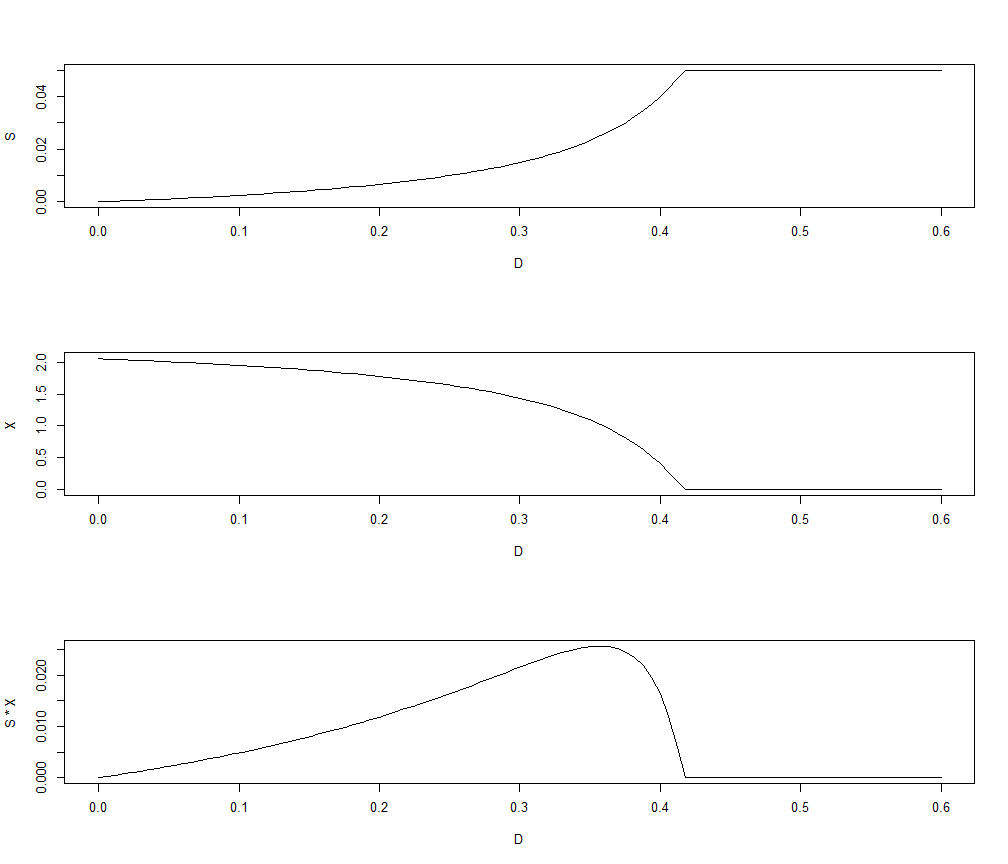
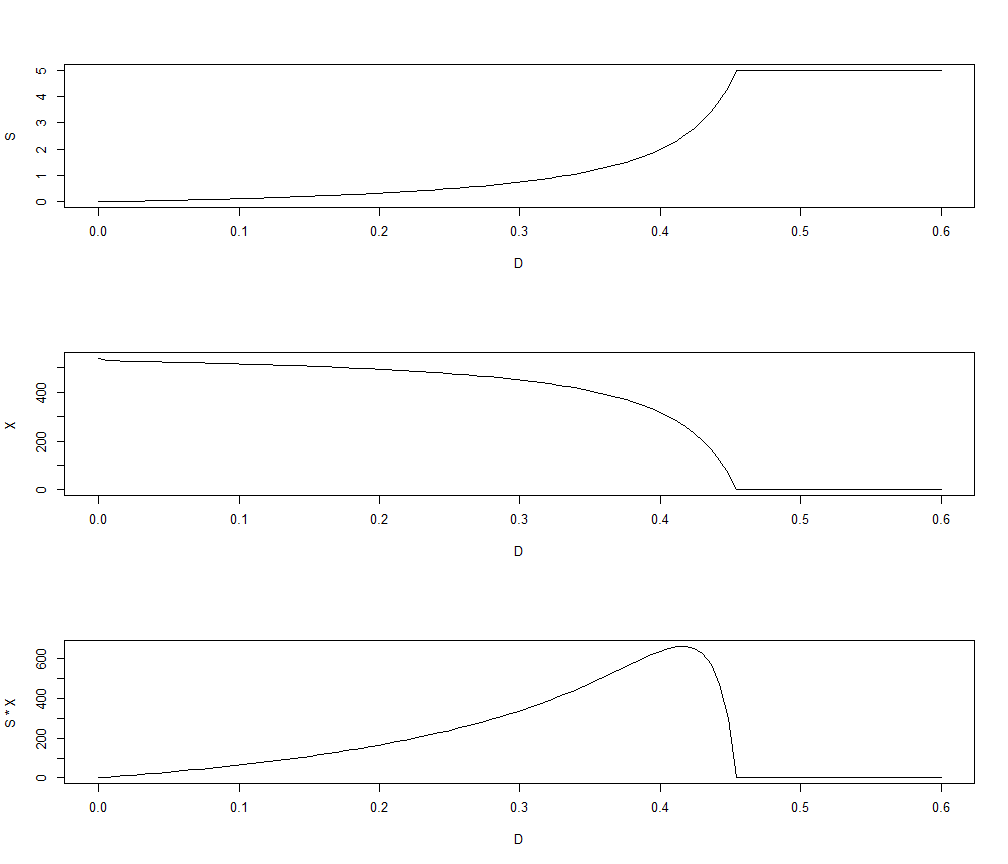
slide tweaks

diff --git a/docs/index.html b/docs/index.html
@@ -4,7 +4,7 @@
     <title>Numerical simulation of dynamic systems with R: an introduction</title>
     <meta charset="utf-8" />
     <meta name="author" content="Thomas Petzoldt and Karline Soetaert" />
-    <meta name="date" content="2021-06-28" />
+    <meta name="date" content="2021-07-03" />
     <script src="libs/header-attrs-2.8.4/header-attrs.js"></script>
     <link href="libs/remark-css-0.0.1/default.css" rel="stylesheet" />
     <link href="libs/remark-css-0.0.1/useR-fonts.css" rel="stylesheet" />
@@ -35,7 +35,7 @@ background-size: cover
 
 # Numerical simulation of dynamic systems with R: an introduction
 
-#### Thomas Petzoldt and Karline Soetaert,  2021-06-28
+#### Thomas Petzoldt and Karline Soetaert,  2021-07-03
 
 #### IMPORTANT NOTE
 
@@ -84,7 +84,7 @@ The introduction will demonstrate selected examples: growth of organisms, predat
 ]
 ---
 
-### Example 3: SIR model - Flatten the curve
+#### Example 3: SIR model - Flatten the curve
 
 &lt;iframe src="https://weblab.hydro.tu-dresden.de/apps/sir-app/" width=1200px, height=600px&gt;&lt;/iframe&gt;
 
@@ -240,8 +240,8 @@ class: page-font-large
 \frac{dX}{dt} = \mbox{import} - \mbox{export}\\
 }$$`
 
-<div id="htmlwidget-cd3e49700ce410a5d41b" style="width:1008px;height:288px;" class="grViz html-widget"></div>
-<script type="application/json" data-for="htmlwidget-cd3e49700ce410a5d41b">{"x":{"diagram":"digraph feedback {\n         graph [rankdir = \"LR\"]\n           node [shape = box, penwidth=2, fontname = \"Helvetica\"]\n             X\n           node [shape = octagon, penwidth=0.5, style=\"rounded\", fixedsize=25, fontsize=8]\n             Source Sink\n           node [shape = none, fontsize=10]\n             import export\n           edge [penwidth=1.5]\n             Source -> import -> X -> export -> Sink\n         \n}","config":{"engine":"dot","options":null}},"evals":[],"jsHooks":[]}</script>
+<div id="htmlwidget-9b1a339b27772acdd022" style="width:1008px;height:288px;" class="grViz html-widget"></div>
+<script type="application/json" data-for="htmlwidget-9b1a339b27772acdd022">{"x":{"diagram":"digraph feedback {\n         graph [rankdir = \"LR\", bgcolor=\"none\"]\n           node [shape = box, penwidth=2, fontname = \"Helvetica\"]\n             X\n           node [shape = octagon, penwidth=0.5, style=\"rounded\", fixedsize=25, fontsize=8]\n             Source Sink\n           node [shape = none, fontsize=10]\n             import export\n           edge [penwidth=1.5]\n             Source -> import -> X -> export -> Sink\n         \n}","config":{"engine":"dot","options":null}},"evals":[],"jsHooks":[]}</script>
 
 `\(X\)` = .gray[any quantity: matter, energy, information]
 
@@ -253,8 +253,8 @@ class: page-font-large
 \frac{dN}{dt} = \mbox{birthhrate} \cdot N - \mbox{deathrate}\cdot N = b \cdot N - d \cdot N = (b-d) \cdot N \\
 \frac{dN}{dt} = r \cdot N\\
 }$$`
-<div id="htmlwidget-9d939027d8071b08e9c8" style="width:1008px;height:288px;" class="grViz html-widget"></div>
-<script type="application/json" data-for="htmlwidget-9d939027d8071b08e9c8">{"x":{"diagram":"digraph feedback {\n         graph [rankdir = \"LR\"]\n           node [shape = box, penwidth=2, fontname = \"Helvetica\"]\n             \"Population N\"\n           node [shape = octagon, penwidth=0.5, style=\"rounded\", fixedsize=25, fontsize=8]\n             Source Sink\n           node [shape = none, fontsize=10]\n             birth death\n           edge [penwidth=1.5]\n             Source -> birth -> \"Population N\" -> death -> Sink\n           edge [penwidth=0.7, tailport = \"n\", headport = \"n\", constraint = false, color=tomato]\n             \"Population N\" -> birth \n             \"Population N\" -> death\n}","config":{"engine":"dot","options":null}},"evals":[],"jsHooks":[]}</script>
+<div id="htmlwidget-c37808bfc3c52fe391d1" style="width:1008px;height:288px;" class="grViz html-widget"></div>
+<script type="application/json" data-for="htmlwidget-c37808bfc3c52fe391d1">{"x":{"diagram":"digraph feedback {\n         graph [rankdir = \"LR\", bgcolor=\"none\"]\n           node [shape = box, penwidth=2, fontname = \"Helvetica\"]\n             \"Population N\"\n           node [shape = octagon, penwidth=0.5, style=\"rounded\", fixedsize=25, fontsize=8]\n             Source Sink\n           node [shape = none, fontsize=10]\n             birth death\n           edge [penwidth=1.5]\n             Source -> birth -> \"Population N\" -> death -> Sink\n           edge [penwidth=0.7, tailport = \"n\", headport = \"n\", constraint = false, color=tomato]\n             \"Population N\" -> birth \n             \"Population N\" -> death\n}","config":{"engine":"dot","options":null}},"evals":[],"jsHooks":[]}</script>
 
 
 ---
@@ -353,7 +353,7 @@ model &lt;- function (time, y, parms) {
 }
 y0 &lt;- c(N = 0.1)
 parms &lt;- c(r = 0.1, K = 10)
-times &lt;- seq(0, 100, 1)
+times &lt;- seq(from = 0, to = 100, by = 1)
 ```
 ]
 
@@ -433,13 +433,11 @@ User can specify tolerances **`atol`**, **`rtol`**, default: `\(10^{-6}\)`
 
 Outputs collected at pre-specified time points.
 
-
 #### Fixed-step solvers: `euler`, `rk2`, `rk4`
 
 still quite popular, because easy to implement
 
-`\(\rightarrow\)` problems with precision, CPU effort, stability
-
+`\(\rightarrow\)` problems with precision, CPU effort, stability&lt;br&gt;
 `\(\rightarrow\)` useful in special cases
 
 ]
@@ -448,15 +446,15 @@ still quite popular, because easy to implement
 
 ```r
 out &lt;- ode(y0, 
-*  times = 1:10, # output time steps
+* times = 1:10,    # output time steps
   model, 
   parms, 
-  atol = 1e-6, # absolute tolerance
-  rtol = 1e-6  # relative tolerance
+  atol = 1e-6,     # absolute tolerance
+  rtol = 1e-6      # relative tolerance
 )
 ```
 
-&lt;br&gt;&lt;br&gt;&lt;br&gt;
+&lt;br&gt;&lt;br&gt;
 * use .red[**`lsoda`**]
 * no need to use very small output steps
 * keep tolerances in mind,&lt;br&gt; consider to rescale huge or tiny values
@@ -467,36 +465,33 @@ class: page-font-huge
 
 # Practical Examples
 
-- Resource limited growth
-- A basic Covid 19 model
-- Basic idea of a lake: the Chemostat
-- Lotka-Volterra's predator-prey interactions
-- Reaction and transport in a river
+1. Resource limited growth
+1. A basic Covid 19 model
+1. Basic idea of a lake: the Chemostat
+1. Lotka-Volterra's predator-prey interactions
+1. Reaction and transport in a river
 
 
 
 ---
 ## Resource Limited Growth
 
-#### Two state variables
+&lt;br&gt;
 
-* Nutrients, Algae
-* feedback
-* functional response (e.g. Holling, Monod, ...)
+<div id="htmlwidget-22e7547fda13d60b6ca8" style="width:1008px;height:216px;" class="grViz html-widget"></div>
+<script type="application/json" data-for="htmlwidget-22e7547fda13d60b6ca8">{"x":{"diagram":"digraph feedback {\n         graph [rankdir = \"LR\", bgcolor=\"none\"]\n           node [shape = box, penwidth=2, fontname = \"Helvetica\"]\n             Nutrient, Algae\n           node [shape = none, fontsize=10]\n             growth\n           edge [penwidth=1.5]\n             Nutrient -> growth -> Algae \n           edge [penwidth=0.7, tailport = \"n\", headport = \"n\", constraint = false, color=tomato]\n             Algae -> growth \n}","config":{"engine":"dot","options":null}},"evals":[],"jsHooks":[]}</script>
 
-
-
-<div id="htmlwidget-5e9807b6ab8a05883ddd" style="width:1008px;height:144px;" class="grViz html-widget"></div>
-<script type="application/json" data-for="htmlwidget-5e9807b6ab8a05883ddd">{"x":{"diagram":"digraph feedback {\n         graph [rankdir = \"LR\"]\n           node [shape = box, penwidth=2, fontname = \"Helvetica\"]\n             Nutrient, Algae\n           node [shape = none, fontsize=10]\n             growth\n           edge [penwidth=1.5]\n             Nutrient -> growth -> Algae \n           edge [penwidth=0.7, tailport = \"n\", headport = \"n\", constraint = false, color=tomato]\n             Algae -> growth \n}","config":{"engine":"dot","options":null}},"evals":[],"jsHooks":[]}</script>
-
+* two state variables
+* functional response: growth depends on nutrient, e.g. Holling, Monod, ...
+* feedback: more algae, more growth
 
 ---
 
 
 ### System of equations
 
-<div id="htmlwidget-417f22c3753e418a4769" style="width:1008px;height:144px;" class="grViz html-widget"></div>
-<script type="application/json" data-for="htmlwidget-417f22c3753e418a4769">{"x":{"diagram":"digraph feedback {\n         graph [rankdir = \"LR\"]\n           node [shape = box, penwidth=2, fontname = \"Helvetica\"]\n             Nutrient, Algae\n           node [shape = none, fontsize=10]\n             growth\n           edge [penwidth=1.5]\n             Nutrient -> growth -> Algae \n           edge [penwidth=0.7, tailport = \"n\", headport = \"n\", constraint = false, color=tomato]\n             Algae -> growth \n}","config":{"engine":"dot","options":null}},"evals":[],"jsHooks":[]}</script>
+<div id="htmlwidget-daf1feccd629f5b3aeb6" style="width:1008px;height:144px;" class="grViz html-widget"></div>
+<script type="application/json" data-for="htmlwidget-daf1feccd629f5b3aeb6">{"x":{"diagram":"digraph feedback {\n         graph [rankdir = \"LR\", bgcolor=\"none\"]\n           node [shape = box, penwidth=2, fontname = \"Helvetica\"]\n             Nutrient, Algae\n           node [shape = none, fontsize=10]\n             growth\n           edge [penwidth=1.5]\n             Nutrient -> growth -> Algae \n           edge [penwidth=0.7, tailport = \"n\", headport = \"n\", constraint = false, color=tomato]\n             Algae -> growth \n}","config":{"engine":"dot","options":null}},"evals":[],"jsHooks":[]}</script>
 
 ----
 
@@ -558,7 +553,7 @@ redfield(1, species="P")
 
 ```r
 out &lt;- ode(y, times, model, parms)
-plot(out, las=1)
+plot(out, las = 1)
 ```
 
 ![](index_files/figure-html/unnamed-chunk-5-1.png)&lt;!-- --&gt;
@@ -570,7 +565,7 @@ plot(out, las=1)
 out1 &lt;- ode(y, times, model, parms =  c(r = 0.2, kP = 0.5, Y = 106))
 out2 &lt;- ode(y, times, model, parms =  c(r = 0.1, kP = 1.0, Y = 120))
 
-plot(out1, out2, las=1)
+plot(out1, out2, las = 1)
 legend("topright", legend=c("Scenario 1", "Scenario 2"), lty=1:2, col=1:2)
 ```
 
@@ -591,8 +586,8 @@ legend("topright", legend=c("Scenario 1", "Scenario 2"), lty=1:2, col=1:2)
 
 ## A standard SIR model
 
-<div id="htmlwidget-83bcd57d3887cfcb4886" style="width:1008px;height:288px;" class="grViz html-widget"></div>
-<script type="application/json" data-for="htmlwidget-83bcd57d3887cfcb4886">{"x":{"diagram":"digraph feedback {\n         graph [rankdir = \"LR\"]\n           node [shape = box, penwidth=2, fontname = \"Helvetica\", style=\"filled\", color=\"dodgerblue\"]\n             S, I, R\n           node [shape = none, fontsize=10, style=\"\"]\n             infection, recovery, mortality\n            node [shape = octagon, penwidth=0.5, style=\"rounded\", fixedsize=25, fontsize=8]\n             X\n           edge [penwidth=1.5]\n             S -> infection -> I\n             I -> recovery -> R\n             I -> mortality\n             mortality -> X\n}","config":{"engine":"dot","options":null}},"evals":[],"jsHooks":[]}</script>
+<div id="htmlwidget-8d79a1c90c48a7714288" style="width:1008px;height:288px;" class="grViz html-widget"></div>
+<script type="application/json" data-for="htmlwidget-8d79a1c90c48a7714288">{"x":{"diagram":"digraph feedback {\n         graph [rankdir = \"LR\", bgcolor=\"none\"]\n           node [shape = box, penwidth=2, fontname = \"Helvetica\", style=\"filled\", color=\"dodgerblue\"]\n             S, I, R\n           node [shape = none, fontsize=10, style=\"\"]\n             infection, recovery, mortality\n            node [shape = octagon, penwidth=0.5, style=\"rounded\", fixedsize=25, fontsize=8]\n             X\n           edge [penwidth=1.5]\n             S -> infection -> I\n             I -> recovery -> R\n             I -> mortality\n             mortality -> X\n}","config":{"engine":"dot","options":null}},"evals":[],"jsHooks":[]}</script>
 
 #### Total population is subdivided into 3 subpopulations
 
@@ -608,17 +603,17 @@ distribution or influence of stochasticity.
 
 
 `\begin{align}
-\frac{dS}{dt} &amp;= -Infection\\
-\frac{dI}{dt} &amp;= Infection - Recovery - Mortality\\
-\frac{dR}{dt} &amp;= Recovery
+\frac{dS}{dt} &amp;= -infection\\
+\frac{dI}{dt} &amp;= infection - recovery - mortality\\
+\frac{dR}{dt} &amp;= recovery
 \end{align}`
 
 where 
 
 `\begin{align}
-Infection &amp;= b \cdot I \cdot S\\
-Recovery  &amp;= g \cdot I\\
-Mortality &amp;= m \cdot I
+infection &amp;= b \cdot I \cdot S\\
+recovery  &amp;= g \cdot I\\
+mortality &amp;= m \cdot I
 \end{align}`
 
 | Name      | Value      | Description         | Unit                        |
@@ -637,17 +632,17 @@ Mortality &amp;= m \cdot I
 SIR &lt;- function(t, state, parameters) {
   with (as.list(c(state, parameters)), {
 
-    Infection &lt;- b * S * I
-    Recovery  &lt;- g * I
-    Mortality &lt;- m * I
+    infection &lt;- b * S * I
+    recovery  &lt;- g * I
+    mortality &lt;- m * I
     
-    dS_dt     &lt;- -Infection 
-    dI_dt     &lt;-  Infection - Recovery - Mortality
-    dR_dt     &lt;-  Recovery
+    dS_dt     &lt;- -infection 
+    dI_dt     &lt;-  infection - recovery - mortality
+    dR_dt     &lt;-  recovery
 
-    list(c(dS_dt, dI_dt, dR_dt),      # the time derivatives
-                 Population = S+I+R)  # extra output variable
-  }) 
+    list(c(dS_dt, dI_dt, dR_dt),  # the time derivatives
+         Population = S+I+R)      # extra output variable
+  })
 }
 
 y0 &lt;- c(S = 11500000 - 1000, I = 1000, R = 0)
@@ -659,9 +654,9 @@ parms &lt;- c(
 )
 
 
-times &lt;- seq(from=0, to=365, by=1)   # time sequence, in days
-out   &lt;- ode(y = y0, times=times, func=SIR, parms=parms)
-plot(out, las=1, mfrow=c(1,4))
+times &lt;- seq(from = 0, to = 365, by = 1)   # time sequence, in days
+out   &lt;- ode(y = y0, times = times, func = SIR, parms = parms)
+plot(out, las = 1, mfrow = c(1, 4))
 ```
 
 ![](index_files/figure-html/SIR-solution-1.png)&lt;!-- --&gt;
@@ -705,12 +700,12 @@ parms &lt;- c(
 )
 
 
-times &lt;- seq(from=0, to=365, by=1)   # time sequence, in days
-out2   &lt;- ode(y = y0, times=times, func=SIR_distancing, parms=parms)
-plot(out, out2, las=1, which=c("S", "I", "R"), mfrow=c(1,4))
+times &lt;- seq(from = 0, to = 365, by = 1)   # time sequence, in days
+out2   &lt;- ode(y = y0, times = times, func = SIR_distancing, parms = parms)
+plot(out, out2, las = 1, which = c("S", "I", "R"), mfrow = c(1, 4))
 plot(times, rep(1, length(times)), 
-     ylim=c(0,1), type="l", xlab="time", ylab="", 
-     main="social contact", las=1, lty=2, col="red")
+     ylim = c(0,1), type="l", xlab = "time", ylab = "", 
+     main = "social contact", las = 1, lty = 2, col = "red")
 lines(times, f_contact(times))
 ```
 
@@ -757,27 +752,27 @@ library("rootSolve")
 
 chemostat &lt;- function(time, init, parms) {
   with(as.list(c(init, parms)), {
-    mu   &lt;- mumax * P/(kp + P)  # Monod equation
-    dAlg_dt &lt;- mu * Alg - D * Alg
-    dP_dt   &lt;-  D *(P0 - P) - 1/Y * mu * Alg
-    list(c(dAlg_dt, dP_dt), mu=mu)
+    r       &lt;- r_max * P/(kp + P)  # Monod equation
+    dAlg_dt &lt;- r * Alg - D * Alg
+    dP_dt   &lt;- D * (P0 - P) - 1/Y * r * Alg
+    list(c(dAlg_dt, dP_dt), r = r)
    })
 }
 parms &lt;- c(
-  mumax = 0.5,    # 1/d
-  kp    = 0.01,   # half saturation constant (mg/L)
-  Y     = 41,     # yield coefficient (stoichiometric C:P ratio)
+  r_max = 0.5,    # 1/d
+  kp    = 0.5,    # half saturation constant, P (mol/m3)
+  Y     = 106,    # yield coefficient (stoichiometric C:P ratio)
   D     = 0.1,    # 1/d
-  P0    = 0.05    # P in inflow (mg/L)
+  P0    = 5       # P in inflow (mol/m3)
 )
-times &lt;- seq(0, 40, 0.1)  # (d)
-init  &lt;- c(Alg=0.01, P=0.05) # Phytoplankton C and Phosphorus P (mg/L)
+times &lt;- seq(0, 40, 0.1)        # (d)
+init  &lt;- c(Alg = 10, P = 5)    # Phytoplankton C and Phosphorus P (mol/m3)
 
 ## =============================================================================
 ## Dynamic simulation
 ## =============================================================================
 out &lt;- ode(init, times, chemostat, parms)
-plot(out, mfrow=c(1, 3), las=1)
+plot(out, mfrow=c(1, 3), las = 1)
 ```
 
 ![](index_files/figure-html/Chemostat-dynamic-1.png)&lt;!-- --&gt;
@@ -821,8 +816,8 @@ plot(S * X ~ D, data = state, type = "l")
 
 ### Lotka-Volterra's Predator and Prey
 
-<div id="htmlwidget-42baea4179459fd1174e" style="width:1008px;height:288px;" class="grViz html-widget"></div>
-<script type="application/json" data-for="htmlwidget-42baea4179459fd1174e">{"x":{"diagram":"digraph lotka {\n         graph [rankdir = \"LR\"]\n           node [shape = box, penwidth=2, fontname = \"Helvetica\"]\n             Predator, Prey\n           node [shape = octagon, penwidth=0.5, style=\"rounded\", fixedsize=25, fontsize=8]\n             Source Sink\n           node [shape = none, fontsize=10]\n             growth death grazing\n           edge [penwidth=1.5]\n             Source -> growth -> Prey -> grazing -> Predator -> death -> Sink\n           edge [penwidth=0.7, tailport = \"n\", headport = \"n\", constraint = false, color=tomato]\n             Prey -> growth\n             Predator -> grazing\n           edge [penwidth=0.7, tailport = \"s\", headport = \"s\", constraint = false, color=tomato]\n             Prey -> grazing\n             Predator -> death\n\n}","config":{"engine":"dot","options":null}},"evals":[],"jsHooks":[]}</script>
+<div id="htmlwidget-bbf12f53fea1a3cc6a9f" style="width:1008px;height:288px;" class="grViz html-widget"></div>
+<script type="application/json" data-for="htmlwidget-bbf12f53fea1a3cc6a9f">{"x":{"diagram":"digraph lotka {\n         graph [rankdir = \"LR\", bgcolor=\"none\"]\n           node [shape = box, penwidth=2, fontname = \"Helvetica\"]\n             Predator, Prey\n           node [shape = octagon, penwidth=0.5, style=\"rounded\", fixedsize=25, fontsize=8]\n             Source Sink\n           node [shape = none, fontsize=10]\n             growth death grazing\n           edge [penwidth=1.5]\n             Source -> growth -> Prey -> grazing -> Predator -> death -> Sink\n           edge [penwidth=0.7, tailport = \"n\", headport = \"n\", constraint = false, color=tomato]\n             Prey -> growth\n             Predator -> grazing\n           edge [penwidth=0.7, tailport = \"s\", headport = \"s\", constraint = false, color=tomato]\n             Prey -> grazing\n             Predator -> death\n\n}","config":{"engine":"dot","options":null}},"evals":[],"jsHooks":[]}</script>
 
 * state diagram, cycles
 * damped cycle if we introduce a Monod term
@@ -834,8 +829,8 @@ plot(S * X ~ D, data = state, type = "l")
 
 ### Lotka-Volterra Model
 
-<div id="htmlwidget-671ee126e2ed35518ed7" style="width:1008px;height:144px;" class="grViz html-widget"></div>
-<script type="application/json" data-for="htmlwidget-671ee126e2ed35518ed7">{"x":{"diagram":"digraph lotka {\n         graph [rankdir = \"LR\"]\n           node [shape = box, penwidth=2, fontname = \"Helvetica\"]\n             Predator, Prey\n           node [shape = octagon, penwidth=0.5, style=\"rounded\", fixedsize=25, fontsize=8]\n             Source Sink\n           node [shape = none, fontsize=10]\n             growth death grazing\n           edge [penwidth=1.5]\n             Source -> growth -> Prey -> grazing -> Predator -> death -> Sink\n           edge [penwidth=0.7, tailport = \"n\", headport = \"n\", constraint = false, color=tomato]\n             Prey -> growth\n             Predator -> grazing\n           edge [penwidth=0.7, tailport = \"s\", headport = \"s\", constraint = false, color=tomato]\n             Prey -> grazing\n             Predator -> death\n\n}","config":{"engine":"dot","options":null}},"evals":[],"jsHooks":[]}</script>
+<div id="htmlwidget-5381ac8ae5dc4f2d52f1" style="width:1008px;height:144px;" class="grViz html-widget"></div>
+<script type="application/json" data-for="htmlwidget-5381ac8ae5dc4f2d52f1">{"x":{"diagram":"digraph lotka {\n         graph [rankdir = \"LR\", bgcolor=\"none\"]\n           node [shape = box, penwidth=2, fontname = \"Helvetica\"]\n             Predator, Prey\n           node [shape = octagon, penwidth=0.5, style=\"rounded\", fixedsize=25, fontsize=8]\n             Source Sink\n           node [shape = none, fontsize=10]\n             growth death grazing\n           edge [penwidth=1.5]\n             Source -> growth -> Prey -> grazing -> Predator -> death -> Sink\n           edge [penwidth=0.7, tailport = \"n\", headport = \"n\", constraint = false, color=tomato]\n             Prey -> growth\n             Predator -> grazing\n           edge [penwidth=0.7, tailport = \"s\", headport = \"s\", constraint = false, color=tomato]\n             Prey -> grazing\n             Predator -> death\n\n}","config":{"engine":"dot","options":null}},"evals":[],"jsHooks":[]}</script>
 
 `\begin{align}
 \frac{dPrey}{dt} &amp;= \mbox{growth} - \mbox{grazing}\\
@@ -879,7 +874,7 @@ LV &lt;- function(t, state, parameters) {
 }
 times &lt;- 1:1000
 out   &lt;- ode(y = y0, func = LV, times = times, parms = parms)
-plot(out, mfrow = c(1, 3), las=1)
+plot(out, mfrow = c(1, 3), las = 1)
 ```
 
 ![](index_files/figure-html/LV-basic-1.png)&lt;!-- --&gt;
@@ -894,16 +889,16 @@ plot(out, mfrow = c(1, 3), las=1)
 ```r
 model &lt;- function(t, n, parms) {
   with(as.list(c(n, parms)), {
-    dN1_dt &lt;- r1 * N1 - a13 * N1 * N3   # Prey1
-    dN2_dt &lt;- r2 * N2 - a24 * N2 * N4   # Prey2
-    dN3_dt &lt;- a13 * N1 * N3 - r3 * N3   # Predator1
-    dN4_dt &lt;- a24 * N2 * N4 - r4 * N4   # Predator2
+    dN1_dt &lt;-  r1 * N1      - a13 * N1 * N3  # Prey1
+    dN2_dt &lt;-  r2 * N2      - a24 * N2 * N4  # Prey2
+    dN3_dt &lt;- a13 * N1 * N3 -  r3 * N3       # Predator1
+    dN4_dt &lt;- a24 * N2 * N4 -  r4 * N4       # Predator2
     return(list(c(dN1_dt, dN2_dt, dN3_dt, dN4_dt)))
   })
 }
 
 times &lt;- seq(from=0, to=500, by = 0.1)
-n0    &lt;- c(N1=1, N2=1, N3=2, N4=2)
+n0    &lt;- c(N1=1, N2=1, N3=2, N4=2)            # Number of individuals
 parms &lt;- c(r1 = 0.1, r2=0.1, r3=0.1, r4=0.1,  # net growth = birth - death
           a13=0.2, a24 = 0.1                  # interaction
 )
@@ -933,7 +928,7 @@ parms &lt;- list(
 )
 
 out &lt;- ode(n0, times, model, parms)
-plot(out, las=1)
+plot(out, las = 1)
 ```
 
 ![](index_files/figure-html/unnamed-chunk-9-1.png)&lt;!-- --&gt;
